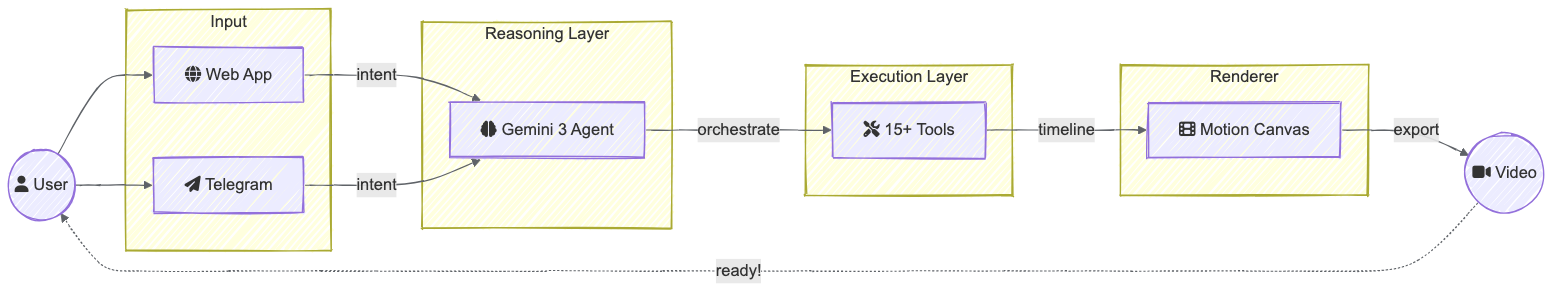
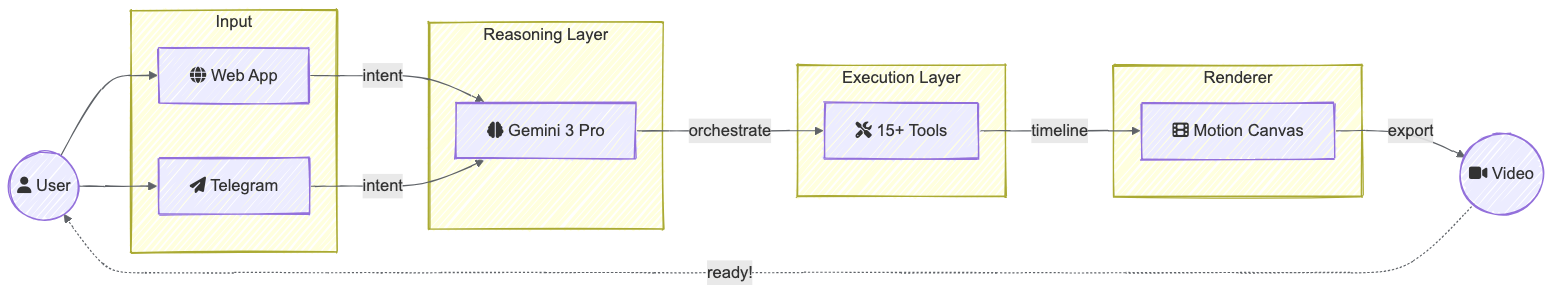
update readme docs

diff --git a/scripts/generate_diagrams.py b/scripts/generate_diagrams.py
@@ -31,10 +31,10 @@ with open("assets/mermaid-config.json", "w") as f:
 # Diagram 1: Infrastructure
 infra = """
 flowchart TB
-    subgraph ai["AI Services"]
-        gemini["fa:fa-brain Gemini 3"]
-        video["fa:fa-eye Video Intelligence"]
-        gen["fa:fa-palette Veo / Imagen / Chirp"]
+    subgraph ai["Gemini 3 Pro"]
+        gemini["fa:fa-brain Reasoning Layer"]
+        vision["fa:fa-eye Multimodal Understanding"]
+        gen["fa:fa-palette Veo 3 / Nano Banana Pro / Lyria / Chirp"]
     end
 
     subgraph data["Data Layer"]
@@ -47,10 +47,10 @@ flowchart TB
         redis["fa:fa-server Redis"]
     end
 
-    gemini --> video
+    gemini --> vision
     gemini --> gen
     gemini -.-> firestore
-    video --> gcs
+    vision --> gcs
     gen --> gcs
     redis --> pubsub
 """
@@ -66,7 +66,7 @@ flowchart LR
     end
 
     subgraph reason["Reasoning Layer"]
-        agent["fa:fa-brain Gemini 3 Agent"]
+        agent["fa:fa-brain Gemini 3 Pro"]
     end
 
     subgraph exec["Execution Layer"]
@@ -87,7 +87,7 @@ flowchart LR
     video -.->|"ready!"| user
 """
 
-# Diagram 3: Asset Pipeline
+# Diagram 3: Asset Pipeline - emphasizing Gemini 3's native multimodal
 pipeline = """
 flowchart LR
     upload(("fa:fa-upload Upload"))
@@ -96,24 +96,22 @@ flowchart LR
         gcs["fa:fa-cloud GCS"]
     end
 
-    subgraph intel["Video Intelligence API"]
-        shots["fa:fa-cut Shots"]
-        labels["fa:fa-tags Labels"]
-        speech["fa:fa-microphone Speech"]
+    subgraph context["1M Token Context Window"]
+        media["fa:fa-photo-video Video / Images / Audio"]
     end
 
-    subgraph understand["Understanding"]
-        gemini["fa:fa-brain Gemini Analysis"]
+    subgraph gemini["Gemini 3 Pro Multimodal"]
+        understanding["fa:fa-brain Native Understanding"]
     end
 
     subgraph index["Index"]
-        library["fa:fa-book Asset Library"]
+        library["fa:fa-book Searchable Assets"]
     end
 
     upload --> gcs
-    gcs --> shots & labels & speech
-    shots & labels & speech --> gemini
-    gemini --> library
+    gcs --> media
+    media -->|"media_resolution"| understanding
+    understanding --> library
 """
 
 diagrams = [
@@ -146,4 +144,4 @@ for name, content in diagrams:
         print(f"✗ {name}: {result.stderr}")
 
 os.remove("assets/mermaid-config.json")
-print("\nDone! Hand-drawn diagrams with Font Awesome icons.")
+print("\nDone! Diagrams use official Gemini 3 terminology.")

diff --git a/README.md b/README.md
@@ -14,7 +14,7 @@
 *Built for the [Gemini 3 Hackathon](https://gemini3.devpost.com)*
 
 ![Next.js](https://img.shields.io/badge/Next.js-15-000000?logo=next.js&logoColor=white)
-![Gemini 3](https://img.shields.io/badge/Gemini-3-4285F4?logo=google&logoColor=white)
+![Gemini 3 Pro](https://img.shields.io/badge/Gemini_3-Pro-4285F4?logo=google&logoColor=white)
 ![LangGraph](https://img.shields.io/badge/LangGraph-Agent-00ff88)
 ![Motion Canvas](https://img.shields.io/badge/Motion_Canvas-Renderer-f59e0b)
 ![TypeScript](https://img.shields.io/badge/TypeScript-5.x-3178C6?logo=typescript&logoColor=white)
@@ -45,7 +45,7 @@
 - [The Problem](#the-problem-ai-can-generate-pixels-but-it-cant-produce-video)
 - [The Solution](#the-solution-an-execution-layer-for-ai-agents)
 - [Why This Changes Everything](#why-this-changes-everything)
-- [Gemini 3: The Reasoning Layer](#gemini-3-the-reasoning-layer)
+- [Gemini 3 Pro: The Reasoning Layer](#gemini-3-pro-the-reasoning-layer)
 - [Architecture](#components)
 - [How the Execution Layer Works](#how-the-execution-layer-works)
 - [Tech Stack](#tech-stack)
@@ -73,7 +73,7 @@ We built the deterministic engine that allows an agent to:
 - **Understand** semantic intent ("zoom in on the error", "cut to the reaction")
 - **Execute** the edit programmatically—frame-perfect, no human in the loop
 
-This isn't a chatbot wrapper. The agent has **real agency**: it calls the renderer, manipulates the timeline, triggers Veo/Lyria/Chirp generation, and proactively notifies you when your video is ready. Gemini 3 becomes the **reasoning layer** for the entire production stack.
+This isn't a chatbot wrapper. The agent has **real agency**: it calls the renderer, manipulates the timeline, triggers Veo 3/Nano Banana Pro/Lyria/Chirp generation, and proactively notifies you when your video is ready. Gemini 3 Pro becomes the **reasoning layer** for the entire production stack.
 
 **The result:** Video creation transforms from a manual craft into a scalable API call.
 
@@ -101,37 +101,36 @@ This isn't automation. This is **collaboration between human directors and AI ag
 
 ---
 
-## Gemini 3: The Reasoning Layer
+## Gemini 3 Pro: The Reasoning Layer
 
-Gemini 3 isn't just integrated—it's the brain that makes agentic video possible.
+Gemini 3 Pro isn't just integrated—it's the brain that makes agentic video possible. We leverage its state-of-the-art reasoning and native multimodal understanding to power every layer of the stack.
 
-**Agent Brain (Gemini 3 Pro Preview)**
-Every interaction flows through Gemini 3. It reasons over project state, decides which tools to invoke, and orchestrates the entire editing pipeline. Without Gemini 3's reasoning and tool use, there is no execution layer—only a traditional UI waiting for human input.
+**Agent Brain (LangGraph + Gemini 3 Pro)**
+Every interaction flows through Gemini 3 Pro. It reasons over project state, decides which tools to invoke, and orchestrates the entire editing pipeline. We use dynamic `thinking_level` to balance reasoning depth with response latency. Without Gemini 3 Pro's reasoning and tool use, there is no execution layer—only a traditional UI waiting for human input.
 
-**Multimodal Understanding (Files API)**
-The agent doesn't just receive text—it *sees* and *hears*. Media uploads go through the Gemini Files API for deep multimodal analysis, producing rich semantic descriptions that power intelligent search and context-aware editing decisions.
+**Multimodal Understanding (1M Token Context Window)**
+The agent doesn't just receive text—it *sees* and *hears*. Gemini 3 Pro can comprehend video, images, and audio natively through its 1 million token context window. We use the `media_resolution` parameter to optimize token usage while maintaining fidelity for scene detection, object recognition, and transcription.
 
-**Asset Intelligence Pipeline (Google Cloud Video AI)**
-Every uploaded asset goes through a full perception pipeline:
-- **Shot Detection** — Automatic scene boundary identification
-- **Label Detection** — Object and context recognition throughout the video
+**Asset Intelligence Pipeline**
+Every uploaded asset goes through Gemini 3 Pro's multimodal analysis:
+- **Scene Detection** — Automatic boundary identification using native video understanding
+- **Object Recognition** — Context-aware detection throughout the video
 - **Speech Transcription** — Full audio-to-text with word-level timestamps
-- **Gemini Analysis** — High-level semantic understanding ("what's happening here?")
+- **Semantic Understanding** — High-level analysis ("what's happening here?")
 
 The agent doesn't just know *that* you have a video—it knows *what's in it*, frame by frame. This is how "find the moment where I click the submit button" actually works.
 
 ![Asset Pipeline](assets/asset_pipeline_diagram.png)
 
-**Generative Pipeline (Veo 3, Image Gen, TTS)**
-The agent doesn't just edit existing footage—it creates. Need b-roll? It generates via Veo 3. Need a thumbnail? Gemini image generation. Need narration? TTS on demand. These aren't add-ons; they're first-class tools the agent invokes autonomously based on narrative intent.
+**Generative Pipeline (Veo 3, Nano Banana Pro, Lyria, Chirp)**
+The agent doesn't just edit existing footage—it creates. Need b-roll? Veo 3. Need a thumbnail? Nano Banana Pro. Need background music? Lyria. Need narration? Chirp TTS. These aren't add-ons; they're first-class tools the agent invokes autonomously based on narrative intent.
 
 **The Stack:**
 | Layer | Role |
 |-------|------|
-| **Gemini 3** | Reasoning + tool orchestration |
-| **Files API** | Multimodal perception |
-| **Video Intelligence API** | Shot detection, labels, transcription |
-| **Veo 3 / Imagen / Chirp** | Generative media creation |
+| **Gemini 3 Pro** | Reasoning + tool orchestration + multimodal understanding |
+| **Files API** | Media upload and processing |
+| **Veo 3 / Nano Banana Pro / Lyria / Chirp** | Generative media creation |
 | **Motion Canvas** | Deterministic frame-perfect rendering |
 
 This is the full loop: **ingest → perceive → reason → generate → render.**
@@ -157,7 +156,7 @@ This is the full loop: **ingest → perceive → reason → generate → render.
 
 ![Request Flow](assets/flow_diagram.png)
 
-**1. Agent Receives Intent** — User speaks naturally (web or Telegram). The Gemini 3 agent parses the request and plans the execution.
+**1. Agent Receives Intent** — User speaks naturally (web or Telegram). The Gemini 3 Pro agent parses the request and plans the execution.
 
 **2. Tools Execute Autonomously** — The agent invokes 15+ tools: timeline manipulation, asset search, Veo generation, image creation, TTS. Each tool is a deterministic operation the agent controls.
 
